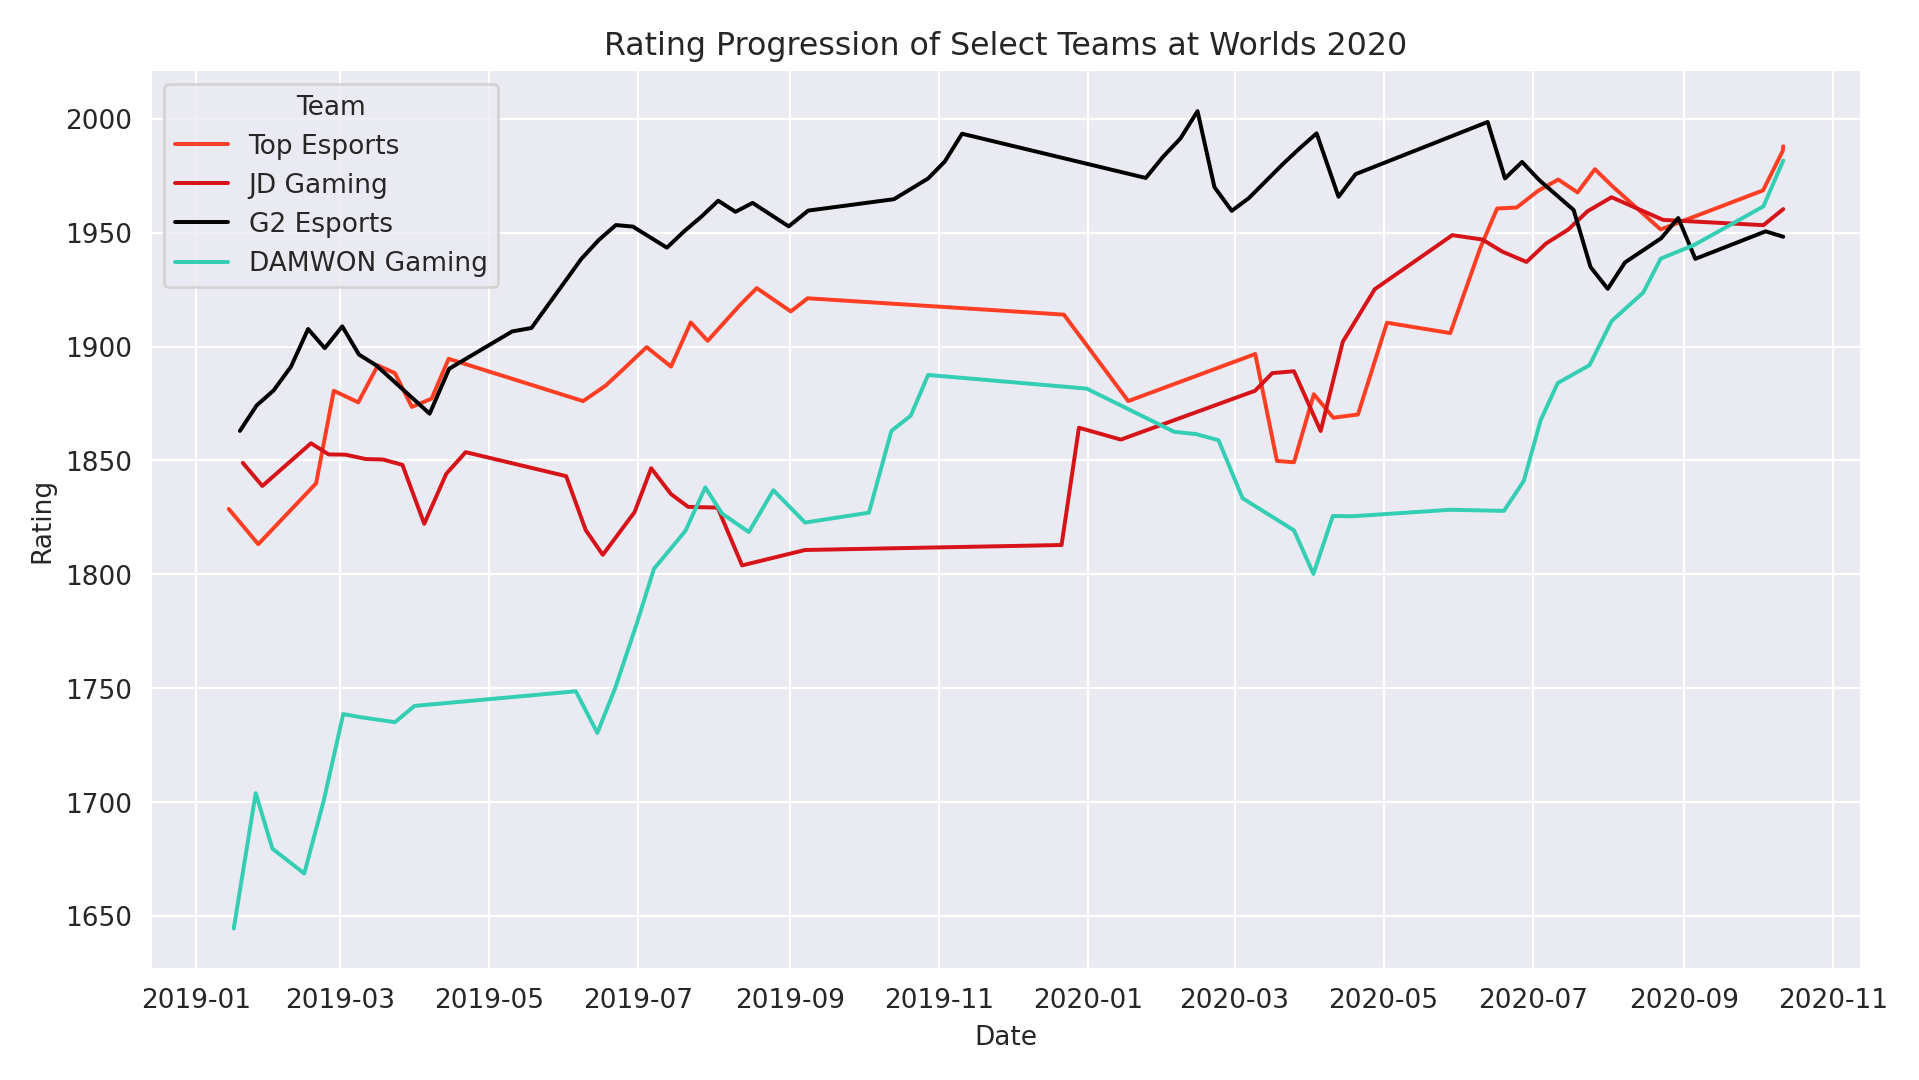
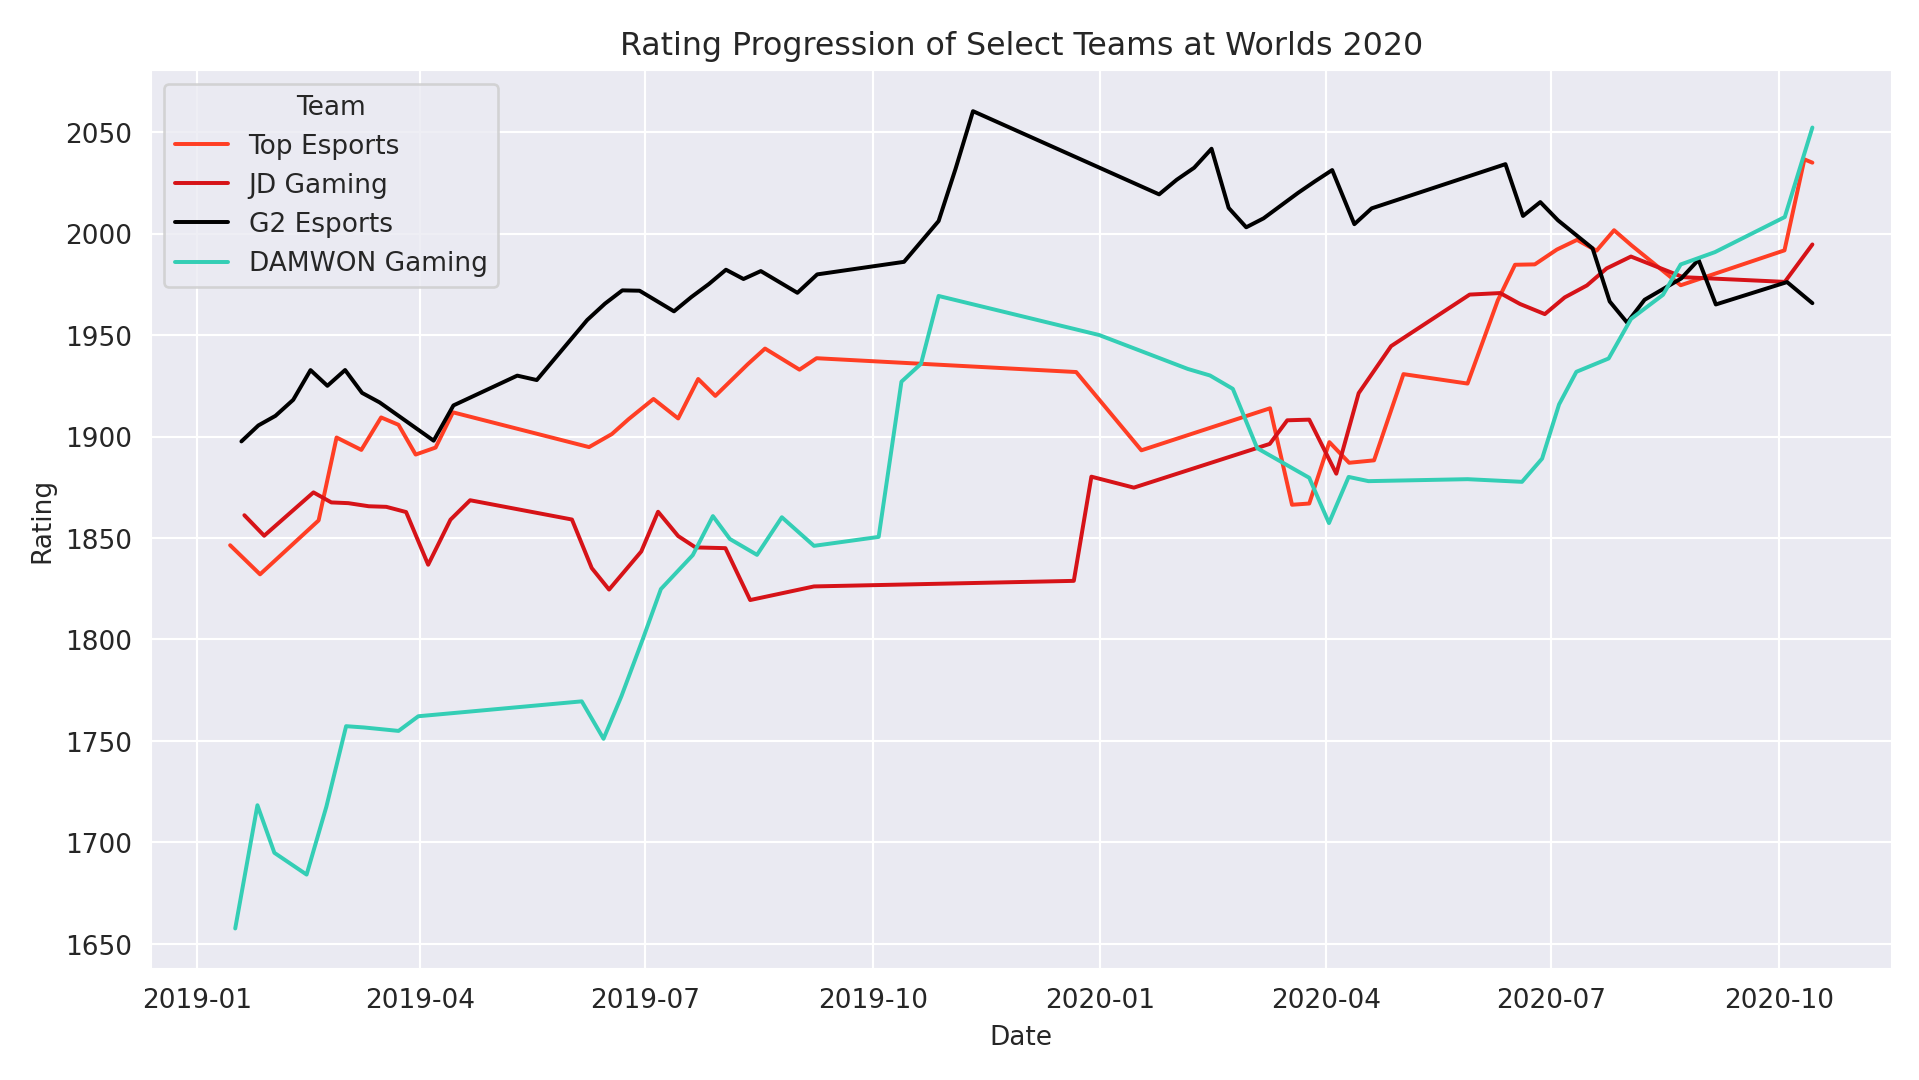
Add 3x weight multiplier on world championship games.

diff --git a/pro_rankings.py b/pro_rankings.py
@@ -10,6 +10,8 @@ _MAJOR_LEAGUES = (
     "LPL 2020 Summer"
 )
 
+_WORLD_CHAMPIONSHIP_BONUS = 2
+
 
 def get_teams_data():
     # get all games after Oct 27, 2009 (release date of LoL)
@@ -50,7 +52,7 @@ def get_teams_data():
             "cargoquery",
             limit="max",
             tables="ScoreboardGames=SG",
-            fields="SG.DateTime_UTC, SG.Team1, SG.Team2, SG.WinTeam",
+            fields="SG.OverviewPage, SG.Team1, SG.Team2, SG.WinTeam, SG.DateTime_UTC",
             where=f"SG.DateTime_UTC >= '{interval_start}'",
             order_by="SG.DateTime_UTC"
         )
@@ -73,6 +75,11 @@ def get_teams_data():
             # add data only if
             if data_only.get("DateTime UTC") != interval_start or data_only not in all_data:
                 all_data.append(data_only)
+
+                page_name = data_only.get("OverviewPage").split("/")[0]
+                if page_name.find("World Championship") != -1:
+                    for _ in range(_WORLD_CHAMPIONSHIP_BONUS):
+                        all_data.append(data_only)
 
         interval_end = all_data[-1].get("DateTime UTC")
         print(f"Collected {len(all_data)} game results ending at {interval_end} ... ")
